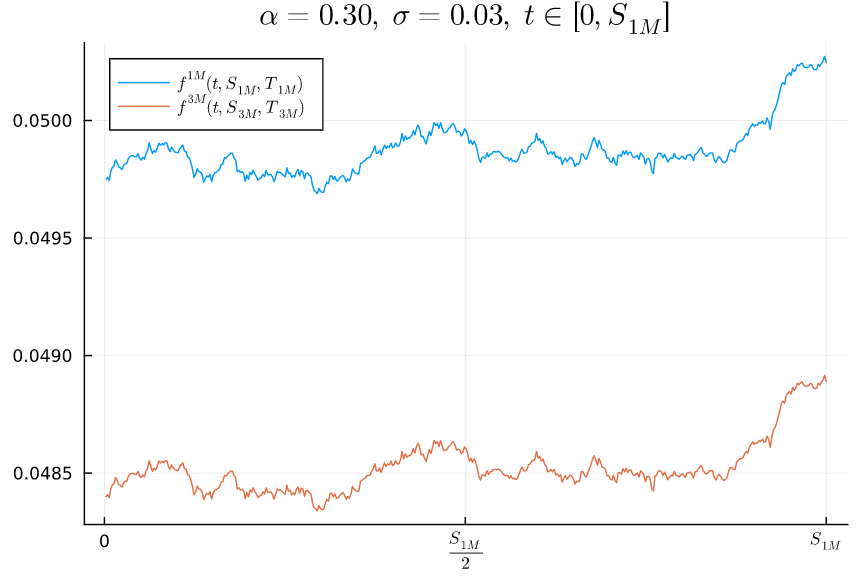
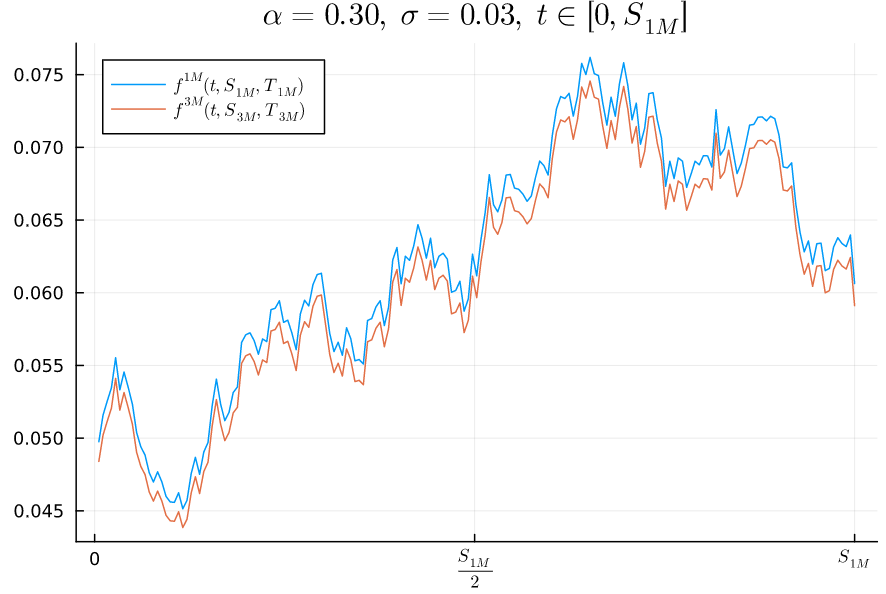
fixed code, Vasicek models should have sqrt(dt), not dt

diff --git a/chapters/chapter5.tex b/chapters/chapter5.tex
@@ -9,9 +9,9 @@ There are also other RFR alternatives (Risk-Free Reference Rates) \nomenclature{
 \\~\\
 On November.30,2020, the Federal Reserve announced that the LIBOR would be phased out and eventually replaced by June 2023. Banks were also instructed to stop writing contracts using the LIBOR by the end of 2021 and that all contracts using the LIBOR should wrap up by June 30, 2023. \cite{hayes_2022}
 \\~\\ 
-SOFR is fundamentally different from LIBOR. The Federal Reserve Bank of New York collects transaction data from the overnight Treasury Repo market. It then calculates a volume-weighted median interest rate. Which then gets published 08.00 AM (Eastern Time) the following business day \cite{ARRC_SOFR}.
+SOFR is fundamentally different from LIBOR. The Federal Reserve Bank of New York collects transaction data from the overnight Treasury Repo market. It then calculates a volume-weighted median interest rate. Which then gets published at 08.00 AM (Eastern Time) the following business day \cite{ARRC_SOFR}.
 \\~\\ 
-This means that SOFR is backwards looking as it is based upon overnight transactions, furthermore, it cannot look beyond 24 hours.  
+This means that SOFR is backwards looking as it is based upon overnight transactions. Furthermore, it cannot look beyond 24 hours.  
 \\~\\
 \textbf{Key differences between LIBOR and SOFR/RFR's}
 
@@ -253,16 +253,42 @@ R^{B}(S,T)|\F_{S}
 \frac{1}{P(S,T)} - 1
 \right) := R^{F}(S,T)
 \end{align*}
-
 \end{proof}
+
+It should also be mentioned that SOFR is closely related to EFFR (Effective Federal Funds Rate). This is an overnight rate reflecting the rate banks and depository institutions lend/borrow to maintain the reserve requirements given by the Federal Reserve.
+
+\nomenclature{EFFR}{Effective Federal Funds Rate}
+\begin{figure}[htp]
+    \centering
+    \includegraphics[height = 7cm, width=15cm]{figures/SOFR/SOFR_EFFR.PNG}
+    \caption{SOFR and EFFR}
+    \label{fig: SOFR_EFFR}
+\end{figure}
+
+
+
 
 
 \newpage 
 
 As mentioned earlier, we have that SOFR is backwards-looking and cannot give any indications beyond 24 hours. However, the CME Group publishes daily a set of forward-looking interest rate estimates called CME Term SOFR Reference Rates Benchmarks. 
-They have the following tenors: 1M, 3M, 6M and 12M. The calculation method can be found in\cite{CMEGroup}. For modelling SOFR dynamics \cite{gellert2021short} can be consulted.  
+They have the following tenors: 1M, 3M, 6M and 12M. 
+
+
+\begin{figure}[htp]
+    \centering
+    \includegraphics[width=12cm]{figures/SOFR/CME_term_SOFR.PNG}
+    \caption{CME term SOFR }
+    \label{fig: CME_term_SOFR}
+\end{figure}
+
+
+
+\begin{comment}
+The calculation method can be found in\cite{CMEGroup}. For modelling SOFR dynamics \cite{gellert2021short} can be consulted.  
 \\~\\ 
-They use SOFR futures for calculating the term rates \cite{CMEGroup}. Some of the reasons why futures were chosen were because of their liquidity. This represents the market's view on the rate; furthermore, this does not require expert judgment or a survey of market participants.  
+\end{comment}
+They use SOFR futures for calculating the term rates. The calculation method can be found at \cite{CMEGroup}. Some of the reasons why futures were chosen were because of their liquidity. This represents the market's view on the rate; furthermore, this does not require expert judgment or a survey of market participants.  
 
 \begin{figure}[htp]
     \centering
@@ -371,8 +397,8 @@ R^{3M}(S,T) = \frac{1}{T-S}\left(
 As futures contracts are free to enter, we get that: 
 \begin{align*}
 \E_{Q}\left[
-R^{iM}(S,T) - f^{iM}(t,S,T)\bigg{|}\F_{t}
-\right] = 0, \;\; i = 1,3   
+R^{\ell M}(S,T) - f^{\ell M}(t,S,T)\bigg{|}\F_{t}
+\right] = 0, \;\; \ell = 1,3   
 \end{align*}
 
 Furthermore, one uses the following convention: 
@@ -814,12 +840,12 @@ Let us consider the case where we look at $\ell=3$, $n=3$, and $\delta = \frac{3
 
 \begin{figure}[htp]
     \centering
-    \includegraphics[width=12cm]{figures/SOFR/1M_Vasicek_relaizations.PNG}
+    \includegraphics[width=12cm]{figures/SOFR/Vasicek_realizations.PNG}
     \caption{Realizations of $t \mapsto r(t), t \in [0,T_{0}]$}
     \label{fig: Vasicek_paths}
 \end{figure}
 
-Here we see 10 realizations of $[0,T_{0}] \ni t \mapsto r(t)$. In the graph below we see the effect of the time horizon and the starting point for the fixed rate $\kappa_{t}^{3M-SOFR}$:
+Here we see two realizations of $[0,T_{0}] \ni t \mapsto r(t)$. In the graph below, we see the effect of the time horizon and the starting point for the fixed rate $\kappa_{t}^{3M-SOFR}$:
 
 
 \begin{figure}[htp]
@@ -829,7 +855,7 @@ Here we see 10 realizations of $[0,T_{0}] \ni t \mapsto r(t)$. In the graph belo
     \label{fig: 3M_SOFR_swap_rate}
 \end{figure}
 
-Here we took 10 realizations of $[0,T_{0}] \ni t \mapsto \kappa_{t}^{3M-SOFR}$. For $t=0$, we got: 
+Here we took two realizations of $[0,T_{0}] \ni t \mapsto \kappa_{t}^{3M-SOFR}$. For $t=0$, we got: 
 \begin{align*}
 \kappa_{0}^{3M-SOFR} &= 
 \frac{
@@ -838,7 +864,7 @@ Here we took 10 realizations of $[0,T_{0}] \ni t \mapsto \kappa_{t}^{3M-SOFR}$. 
 \sum_{i=1}^{3}P(0,T_{i})
 }
 = 
-0.04234
+0.042
 \end{align*}
 
 
@@ -849,17 +875,17 @@ Here we took 10 realizations of $[0,T_{0}] \ni t \mapsto \kappa_{t}^{3M-SOFR}$. 
 
 \section{Options on SOFR futures}
 
-Consider a call option on a SOFR futures, with exercise time $\tau \leq S \leq T$ and strike $\kappa$, the price at time $t \leq \tau$ for $i=1,3$ is given by:
+Consider a call option on SOFR futures, with exercise time $\tau \leq S \leq T$ and strike $\kappa$, the price at time $t \leq \tau$ for $\ell =1,3$ is given by:
 \begin{align*}
-C^{iM}(t,\tau) :&= \E_{Q}\left[
+C^{\ell M}(t,\tau) :&= \E_{Q}\left[
 \frac{B(t)}{B(\tau)}\left(
-f^{iM}(t,S,T) - \kappa
+f^{\ell M}(t,S,T) - \kappa
 \right)^{+}
 \bigg{|}\F_{t}
 \right]  
 &\stackrel{\text{Prop \ref{prop: general_option_price}}}{=} 
 P(t,\tau)\E_{Q^{\tau}}\left[
-\left(f^{iM}(t,S,T) - \kappa
+\left(f^{\ell M}(t,S,T) - \kappa
 \right)^{+}
 \bigg{|}\F_{t}
 \right]

diff --git a/chapters/appendixB.tex b/chapters/appendixB.tex
@@ -78,11 +78,11 @@ function f1M(t,S,T, dt, initial)
     n = length(time)
 
     Random.seed!(1)
-    W = rand(Normal(0,1), n)
+    Z = rand(Normal(0,1), n)
     f1_r = zeros(n)
     f1_r[1] = initial
     for i in 2:n
-        f1_r[i] = f1_r[i-1] + (1/(T-S))*B(time[i-1], S,T)*sigma*dt*W[i]
+        f1_r[i] = f1_r[i-1] + (1/(T-S))*B(time[i-1], S,T)*sigma*sqrt(dt)*Z[i]
     end
 
     return f1_r
@@ -105,11 +105,13 @@ function f3M(t,S,T, dt, initial)
     n = length(time)
 
     Random.seed!(2)
-    W = rand(Normal(0,1), n)
+    #W(t) d= sqrt(t)Z, Z ~ N(0,1)
+    Z = rand(Normal(0,1), n)
     f3_r = zeros(n)
     f3_r[1] = initial
     for i in 2:n
-        f3_r[i] = f3_r[i-1] + (f3_r[i-1] + 1/(T-S))*B(time[i-1], S,T)*sigma*dt*W[i]
+        f3_r[i] = f3_r[i-1] + 
+        (f3_r[i-1] + 1/(T-S))*B(time[i-1], S,T)*sigma*sqrt(dt)*Z[i]
     end
 
     return f3_r
@@ -130,7 +132,7 @@ T3M = S3M + 3/12
 #simulation 
 time = range(t, S1M, step=dt)
 n = length(time)
-W = rand(Normal(0,1), n)
+Z = rand(Normal(0,1), n)
 f1 = zeros(n)
 f3 = zeros(n)
 
@@ -139,22 +141,23 @@ f1[1] = (100-95.025)*1/100
 f3[1] = (100-95.16)*1/100
 
 for i in 2:n
-    f1[i] = f1[i-1] + (1/(T1M-S1M))*B(time[i-1], S1M,T1M)*sigma*dt*W[i]
-    f3[i] = f3[i-1] + (f3[i-1] + 1/(T3M-S3M))*B(time[i-1], S3M,T3M)*sigma*dt*W[i]
+    f1[i] = f1[i-1] + (1/(T1M-S1M))*B(time[i-1], S1M,T1M)*sigma*sqrt(dt)*Z[i]
+    f3[i] = f3[i-1] + (f3[i-1] + 1/(T3M-S3M))*B(time[i-1], S3M,T3M)*sigma*sqrt(dt)*Z[i]
 end
 
-plot(f1, label = L"f^{1M}(t, S_{1M},T_{1M})", title = 
+plot(f1, label = L"f^{1M}(t, S_{1M},T_{1M})", title =
 L"\alpha = 0.30,\; \sigma = 0.03,\; t\in [0,S_{1M}]", legend= :topleft)
 plot!(f3, label = L"f^{3M}(t, S_{3M}, T_{3M})")
 xticks!([0, n/2 ,n], ["0", L"\frac{S_{1M}}{2}", L"S_{1M}"])
 
-    
 \end{minted}
 
 
 \newpage 
 \section{SOFR: Simulation of $\kappa_{t}^{3M-SOFR}$}
 \begin{minted}{julia}
+using Revise
+
 #statistics and distributions
 using Random 
 using Distributions
@@ -185,13 +188,13 @@ function r_Vasicek(alpha, m,sigma, r_t, time_interval, n_steps)
     """
     Args: 
         #Vasicek parameters:
-        alpha (Float): speed of reversion 
-        m (float): long term mean level 
-        sigma (float): volatility 
-        r_t (float): initial value of r = (r(u))
+        alpha{Float64}: speed of reversion 
+        m{Float64}: long term mean level 
+        sigma{Float64}: volatility 
+        r_t{Float64}: initial value of r = (r(u))
         
         #time:
-        time_interval (vector): the time interval we model over e.g [0,3]
+        time_interval (vector): the time interval we model measured in years.
         n_steps (int): number of timesteps we partition over
     
     Returns: 
@@ -212,7 +215,7 @@ function r_Vasicek(alpha, m,sigma, r_t, time_interval, n_steps)
     Z = rand(Normal(0,1), n_steps)
 
     for i in 2:n_steps
-        r[i] = r[i-1] - alpha*(m-r[i-1])*dt + sigma*Z[i]*dt
+        r[i] = r[i-1] - alpha*(m-r[i-1])*dt + sigma*sqrt(dt)*Z[i]
     end
 
     return r
@@ -268,14 +271,16 @@ function f_3M(t,S,T, r_t)
     return ans
 end 
 
-#time t-value of kappa in SOFR-swap
+#time t-value of kappa in 3M SOFR-futures rate swap
 function kappa_t(t, r_t)
     "
     Args: 
-        t (float): a vector of time points i.e [0,T1]
-        r_t (float): vector of realization of interest rate model
+        t{Float64}: vector of time points i.e [0,T1]
+        r_t{Float64}: vector of realization of interest rate model
     Returns: 
-        the fixed swap rate kappa_t_3M-SOFR
+        above = sum(P(t,T_{i}*f^{3M}(t,T_{i-1}, T_{i})), i = 1:n)
+        below = sum(P(t,T_{i}), i = 1:3)
+        kappa_t_3M_SOFR = above/below
     "
     ZCB_prices = map(T -> P(t,T, r_t), timepoints[2:end])
     f_3M_rates = map((x, y) -> f_3M(t, x, y, r_t), timepoints[1:end-1], timepoints[2:end])
@@ -286,61 +291,51 @@ function kappa_t(t, r_t)
 end
 
 
-function kappa_path(t, r)
-    "
-    Args: 
-        t (float): vector of timepoints 
-        r (float): vector of desired interest rate model
-    Returns: 
-        vector of (t,r_t)-valued kappa_t
-    "
-    ans = map((x, y) -> kappa_t(x, y), t, r)
-    return ans
-end
-
 #Vasicek parameters: 
 alpha = 0.25
 m = 0.035
 r_0 = 0.0425
-sigma = 0.05
+sigma = 0.02
 
-r_0 = 0.0425
+#time:
 t_start = 0 
 t_end = T0
-
-r = r_Vasicek(alpha, m, sigma, r_0, [t_start,t_end], n_steps)
 dt = (t_end-t_start)/n_steps
 t = collect(t_start:dt:t_end)
 
-length(r)
-n_sim = 10
-M = zeros(length(r), n_sim)
-R = zeros(length(r), n_sim)
+#initialization of simulation
+n_sim = 2
 
+R = zeros(length(t), n_sim) #Vasicek rates
+K = zeros(length(t), n_sim) #fixed rate kappa for each pair (t,r_t)
 
 Random.seed!(1234)
 for i in 1:n_sim
+    #Vasicek realization:
     r = r_Vasicek(alpha, m, sigma, r_0, [t_start,t_end], n_steps)
-    kappa = kappa_path(t,r)
+    #collect the time t rate and time t kappa:
     R[:, i] = r
-    M[:, i] = kappa
+    K[:, i] = map((x,y)-> kappa_t(x,y), t, r)
 end
-M
-R
 
+R
+K[1]
+
+#plot of rates
 plot(R, layout = (1,1), 
         legend = false,
-        title = L"t \mapsto r(t),\alpha = 0.25, m = 0.035, \sigma = 0.05, r_{0} = 0.0425 "
+        title = L"t \mapsto r(t),\alpha = 0.25, m = 0.035, \sigma = 0.02, r_{0} = 0.0425 "
         )
 xticks!([0, 10_000/2 ,10_000], ["0", L"\frac{T_{0}}{2}", L"T_{0}"])
 
 
-# plot each column of the matrix
-plot(M, layout=(1,1), 
+#plot of kappa_t
+plot(K, layout=(1,1), 
         legend = false, 
-        title = L"t \mapsto \kappa_{t}^{3M-SOFR},\alpha = 0.25, m = 0.035, \sigma = 0.05, r_{0} = 0.0425"
+        title = L"t \mapsto \kappa_{t}^{3M-SOFR},\alpha = 0.25, m = 0.035, \sigma = 0.02, r_{0} = 0.0425"
         )
-xticks!([0, 10_000/2 ,10_000], ["0", L"\frac{T_{0}}{2}", L"T_{0}"])
+xticks!([0, 10_000/2 ,10_000], ["0", L"\frac{T_{0}}{2}", L"T_{0}"]) 
+
 
 
 \end{minted}

diff --git a/chapters/chapter4.tex b/chapters/chapter4.tex
@@ -1181,7 +1181,7 @@ Typically LIBOR has the following Tenors:
     \item 12 Months
 \end{itemize}
 
-The rates are calculated by a trimmed average provided by Panel Banks, meaning they are based on expert judgment. Let's say that there were 16 Panel Banks: $B_{1}, \dots, B_{16}$. Each Bank $B_{i}$ would submit a borrowing rate $r_{i}$ to Intercontinental Exchange Benchmark Administration (ICE) \nomenclature{ICE}{Intercontinental Exchange Benchmark Administration}. It would then be sorted, and then one would cut the highest $25\%$, and the lowest $25\%$. For further information, one can consult \cite{ICE_IBA}.  
+The rates are calculated by a trimmed average provided by Panel Banks, meaning that it works as a market survey. Let's say that there were 16 Panel Banks: $B_{1}, \dots, B_{16}$. Each Bank $B_{i}$ would submit a borrowing rate $r_{i}$ to Intercontinental Exchange Benchmark Administration (ICE) \nomenclature{ICE}{Intercontinental Exchange Benchmark Administration}. It would then be sorted, and then one would cut the highest $25\%$, and the lowest $25\%$. For further information, one can consult \cite{ICE_IBA}.  
 
 \begin{example}
 Assume that the Panel Banks provide the data below for a 3-month tenor. First, one collects the data, then sort it in ascending order, followed by trimming the data: 
